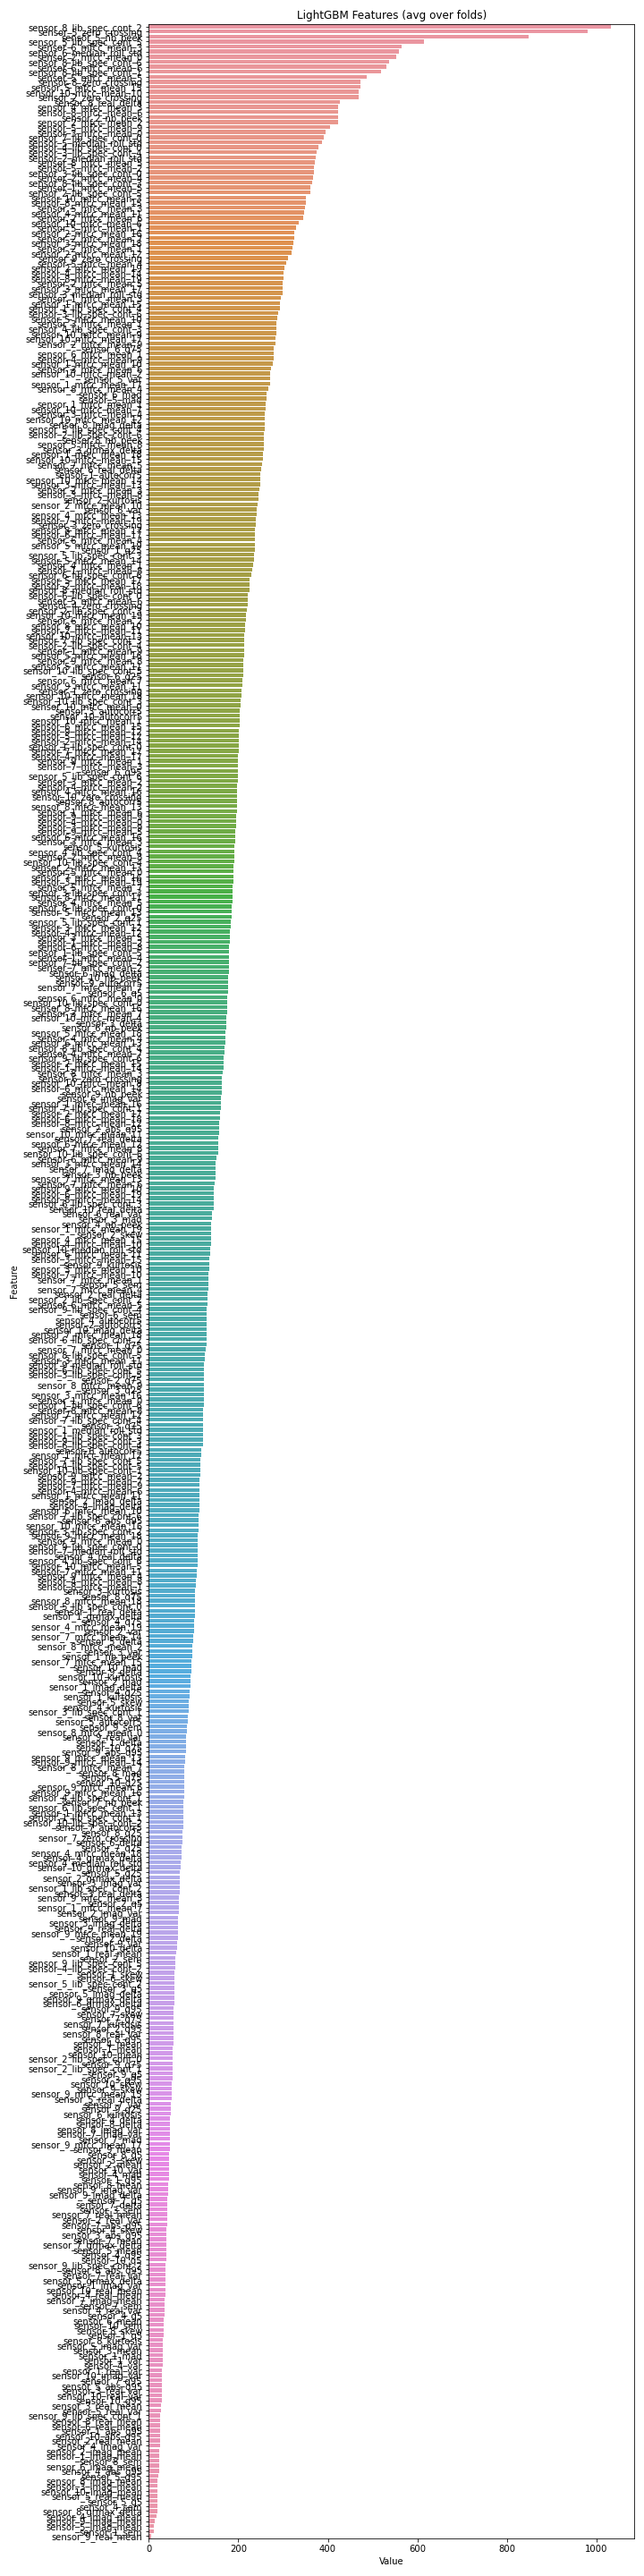
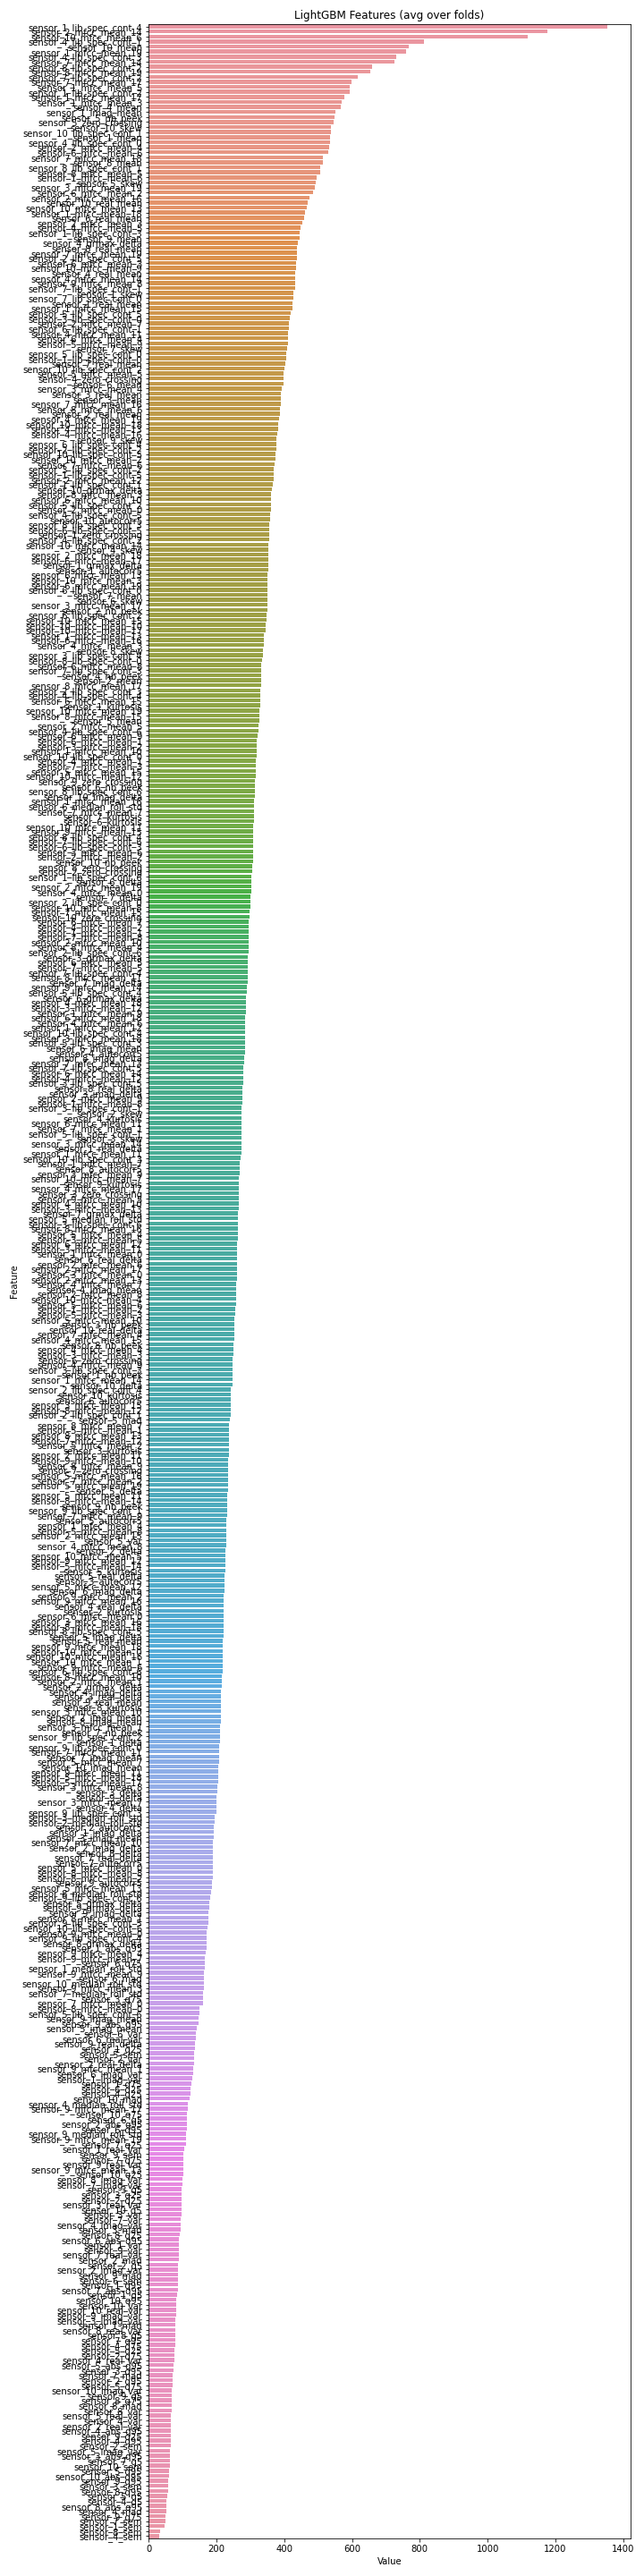
found better tree

diff --git a/lib/decision_tree.py b/lib/decision_tree.py
@@ -17,7 +17,7 @@ warnings.filterwarnings("ignore")
 
 
 WRITE = False
-SUBMIT = True
+SUBMIT = False
 PATH_DATA = "../data/"
 PATH_PREPRO = PATH_DATA + "preprocessing/"
 
@@ -37,12 +37,12 @@ train_set = pd.merge(train_set, train, on='segment_id')
 train_set = train_set.rename(columns=lambda x: re.sub('[^A-Za-z0-9_]+', '', x))
 test_set = test_set.rename(columns=lambda x: re.sub('[^A-Za-z0-9_]+', '', x))
 
-# Training (opt 2.727.499)
-params = {'learning_rate': 0.2894526698568187, 'boosting_type': 'dart',
+# Training (opt 2.604.528)
+params = {'learning_rate': 0.24657446054568, 'boosting_type': 'dart',
           'objective': 'regression', 'metric': 'mae',
-          'sub_feature': 0.5279155828037814, 'num_leaves': 316,
-          'min_data': 48, 'max_depth': 85, 'max_bin': 1057,
-          'min_data_in_leaf': 63, 'n_estimators': 1903}
+          'sub_feature': 0.48729884651486133, 'num_leaves': 469,
+          'min_data': 57, 'max_depth': 155, 'max_bin': 1274,
+          'min_data_in_leaf': 59, 'n_estimators': 2939}
 model = LGBMRegressor(**params)
 
 train = train_set.drop(['segment_id', 'time_to_eruption'], axis=1)

diff --git a/lib/utils.py b/lib/utils.py
@@ -108,4 +108,4 @@ def preprocess_data(target="train"):
 
 
 def lr_decay(current_iter):
-    return max(1e-3, 0.29 * np.power(.995, current_iter))
+    return max(1e-1, 0.29 * np.power(.9985, current_iter))
